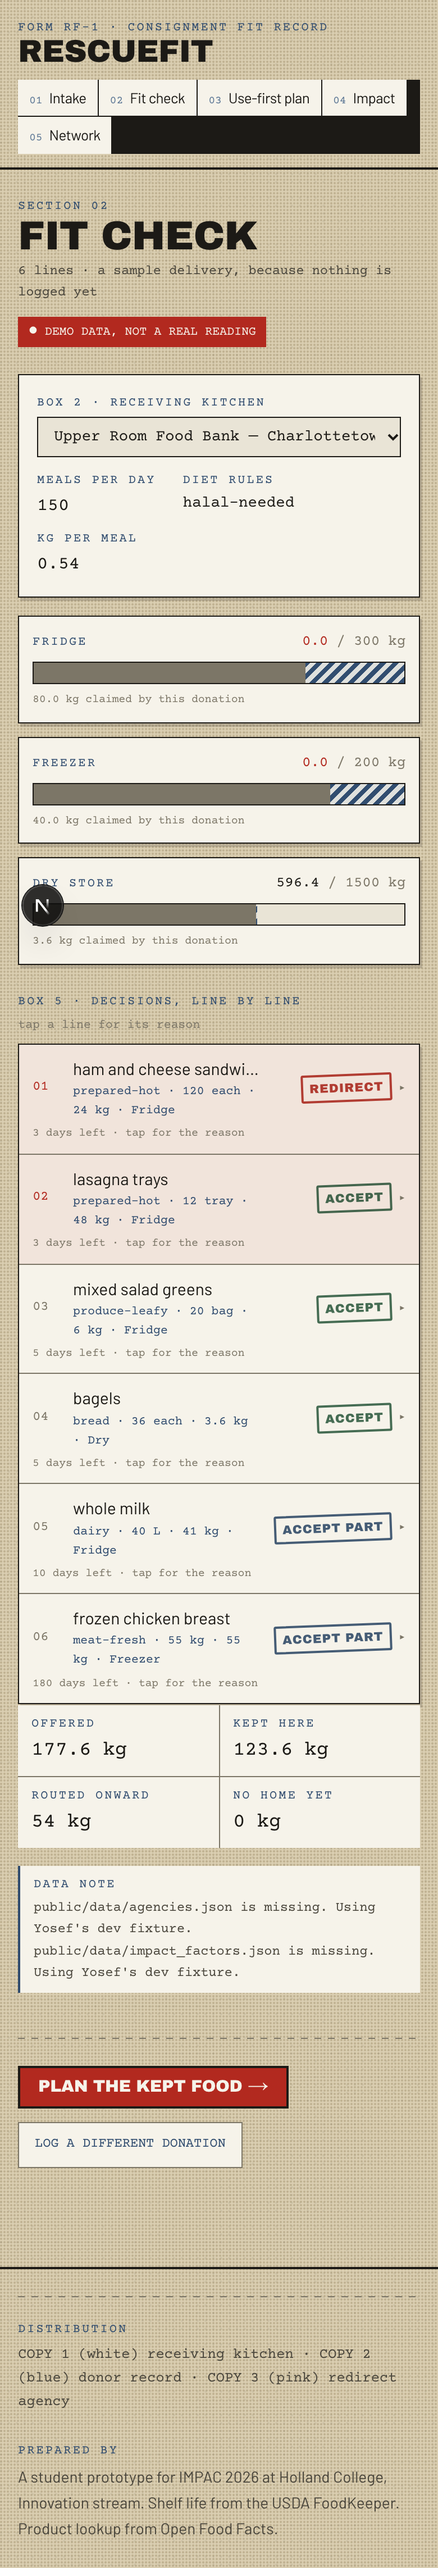
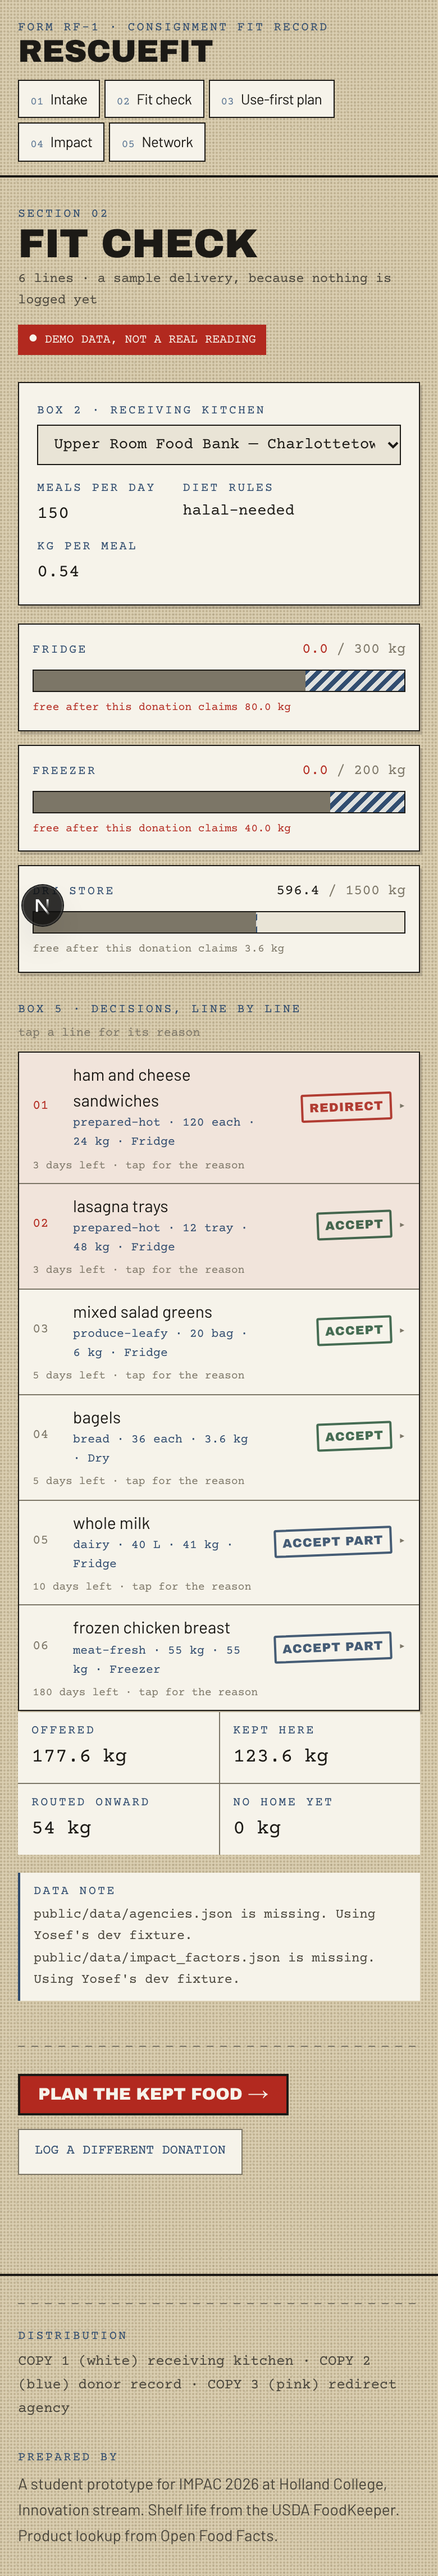
Polish the mobile nav, the gauges, and the canned menu
Three fixes from reading the screenshots.

The nav drew its dividers with a shared ink background behind a flex gap.
On a phone the row wraps, and the background showed as a stray black bar
past the last link. Each link now carries its own border.

A storage gauge reads "0.0 / 300 kg" once a donation claims all the free
space. That is the right number and the wrong sentence, so the line under
it now says "free after this donation claims 80.0 kg" and turns red with
the figure.

Item names were truncated on phones, where the column is widest in
relative terms. They now wrap on small screens and truncate only from the
medium breakpoint up, where the table has real columns.

The canned demo menu still quoted the previous sample donation: it told
the kitchen to serve 2.4 kg of salad greens while the kept list above it
said 6.0 kg, and gave the milk 8 days where the table said 10. The menu
is labelled as canned, but a judge reading both halves would see the
contradiction. It now matches the kept list exactly, and names the ham
that was redirected so the two pages agree.

Changed region(s): [[0.0, 0.0311, 1.0, 0.8386], [0.0, 0.9007, 1.0, 1.0]]

diff --git a/app/lib/demo.ts b/app/lib/demo.ts
@@ -131,7 +131,12 @@ export const DEMO_SPOILAGE = {
   confidence: 0.79,
 };
 
-/** A 3-day plan that uses the soonest-expiring items first. */
+/**
+ * A three-day plan over the items the Upper Room keeps from the sample
+ * donation: 48 kg lasagna, 6 kg salad greens, 3.6 kg bagels, 26 kg of the
+ * milk, and 40 kg of the chicken. The numbers here must agree with that
+ * list, or the demo contradicts itself in front of a judge.
+ */
 export const DEMO_PLAN = {
   days: [
     {
@@ -142,13 +147,13 @@ export const DEMO_PLAN = {
           name: "Garden salad with warm bagel",
           uses: ["mixed salad greens", "bagels"],
           servings: 60,
-          note: "The greens expire first. Serve all of them today.",
+          note: "The greens have 5 days on paper but wilt first. Serve all 6 kg today.",
         },
         {
-          name: "Baked lasagna with side salad",
+          name: "Baked lasagna, first service",
           uses: ["lasagna trays", "mixed salad greens"],
           servings: 90,
-          note: "Reheat two trays to 74 C. Keep the other two cold.",
+          note: "Reheat 6 of the 12 trays to 74 C. Keep the rest cold.",
         },
       ],
     },
@@ -157,7 +162,7 @@ export const DEMO_PLAN = {
       date_label: "Tomorrow",
       meals: [
         {
-          name: "Lasagna and milk service",
+          name: "Baked lasagna, second service",
           uses: ["lasagna trays", "whole milk"],
           servings: 90,
           note: "Last day for the lasagna. Freeze any tray you cannot serve.",
@@ -166,7 +171,7 @@ export const DEMO_PLAN = {
           name: "Bagel breakfast with milk",
           uses: ["bagels", "whole milk"],
           servings: 60,
-          note: "Milk has 8 days left, so there is no rush on it.",
+          note: "The milk has 10 days left, so there is no rush on it.",
         },
       ],
     },
@@ -178,11 +183,11 @@ export const DEMO_PLAN = {
           name: "Chicken and rice bowls",
           uses: ["frozen chicken breast"],
           servings: 100,
-          note: "Move 5 kg of chicken to the fridge tonight to thaw.",
+          note: "Move 10 kg of chicken to the fridge tonight to thaw.",
         },
         {
-          name: "Bagel sandwiches",
-          uses: ["bagels", "whole milk"],
+          name: "Milk service with the last bagels",
+          uses: ["whole milk", "bagels"],
           servings: 50,
           note: "Use the last bagels before they go stale on day 5.",
         },
@@ -191,12 +196,13 @@ export const DEMO_PLAN = {
   ],
   prep_list: [
     "Label every container with the date it came in.",
-    "Move 5 kg of frozen chicken to the fridge on day 2 to thaw safely.",
-    "Wash and spin the salad greens now. They last one day longer dry.",
-    "Portion the lasagna into 90 servings before you reheat it.",
+    "Wash and spin the 6 kg of salad greens now. They last a day longer dry.",
+    "Portion the 48 kg of lasagna into 90 servings before you reheat it.",
+    "Move 10 kg of frozen chicken to the fridge on day 2 to thaw safely.",
     "Freeze any lasagna tray you cannot serve by the end of day 2.",
+    "The 24 kg of ham sandwiches are not on this plan. They went to the Salvation Army.",
   ],
   waste_warning:
-    "The salad greens expire first and are the only item at real risk. " +
-    "Serve all 2.4 kg on day 1.",
+    "The salad greens are the only item at real risk. Serve all 6 kg on " +
+    "day 1, because bagged greens wilt well before their printed date.",
 };

diff --git a/app/components/site-header.tsx b/app/components/site-header.tsx
@@ -32,12 +32,12 @@ export function SiteHeader() {
         </Link>
 
         <nav aria-label="Sections">
-          <ul className="flex flex-wrap gap-px bg-ink">
+          <ul className="flex flex-wrap gap-1">
             {SECTIONS.map((section) => (
               <li key={section.href}>
                 <Link
                   href={section.href}
-                  className="flex items-baseline gap-1.5 bg-stock px-2.5 py-1.5 no-underline transition-colors hover:bg-ink hover:text-stock focus-visible:bg-ink focus-visible:text-stock"
+                  className="flex items-baseline gap-1.5 border border-ink bg-stock px-2.5 py-1.5 no-underline transition-colors hover:bg-ink hover:text-stock focus-visible:bg-ink focus-visible:text-stock"
                 >
                   <span className="typed text-[0.625rem] text-carbon-soft">
                     {section.index}

diff --git a/app/components/document.tsx b/app/components/document.tsx
@@ -221,10 +221,14 @@ export function StorageGauge({
         />
       </div>
 
-      <p className="typed mt-1.5 text-[0.625rem] text-ink-faint">
+      <p
+        className={`typed mt-1.5 text-[0.625rem] ${
+          tight ? "text-stamp" : "text-ink-faint"
+        }`}
+      >
         {claimedKg > 0
-          ? `${claimedKg.toFixed(1)} kg claimed by this donation`
-          : "no claim yet"}
+          ? `free after this donation claims ${claimedKg.toFixed(1)} kg`
+          : "free now, nothing claimed yet"}
       </p>
     </div>
   );

diff --git a/app/components/waybill.tsx b/app/components/waybill.tsx
@@ -91,7 +91,7 @@ export function Waybill({
                   </span>
 
                   <span className="min-w-0">
-                    <span className="block truncate text-[0.9375rem] font-600 text-ink">
+                    <span className="block text-[0.9375rem] font-600 text-ink md:truncate">
                       {result.item.name}
                     </span>
                     <span className="typed block text-[0.6875rem] text-carbon">
